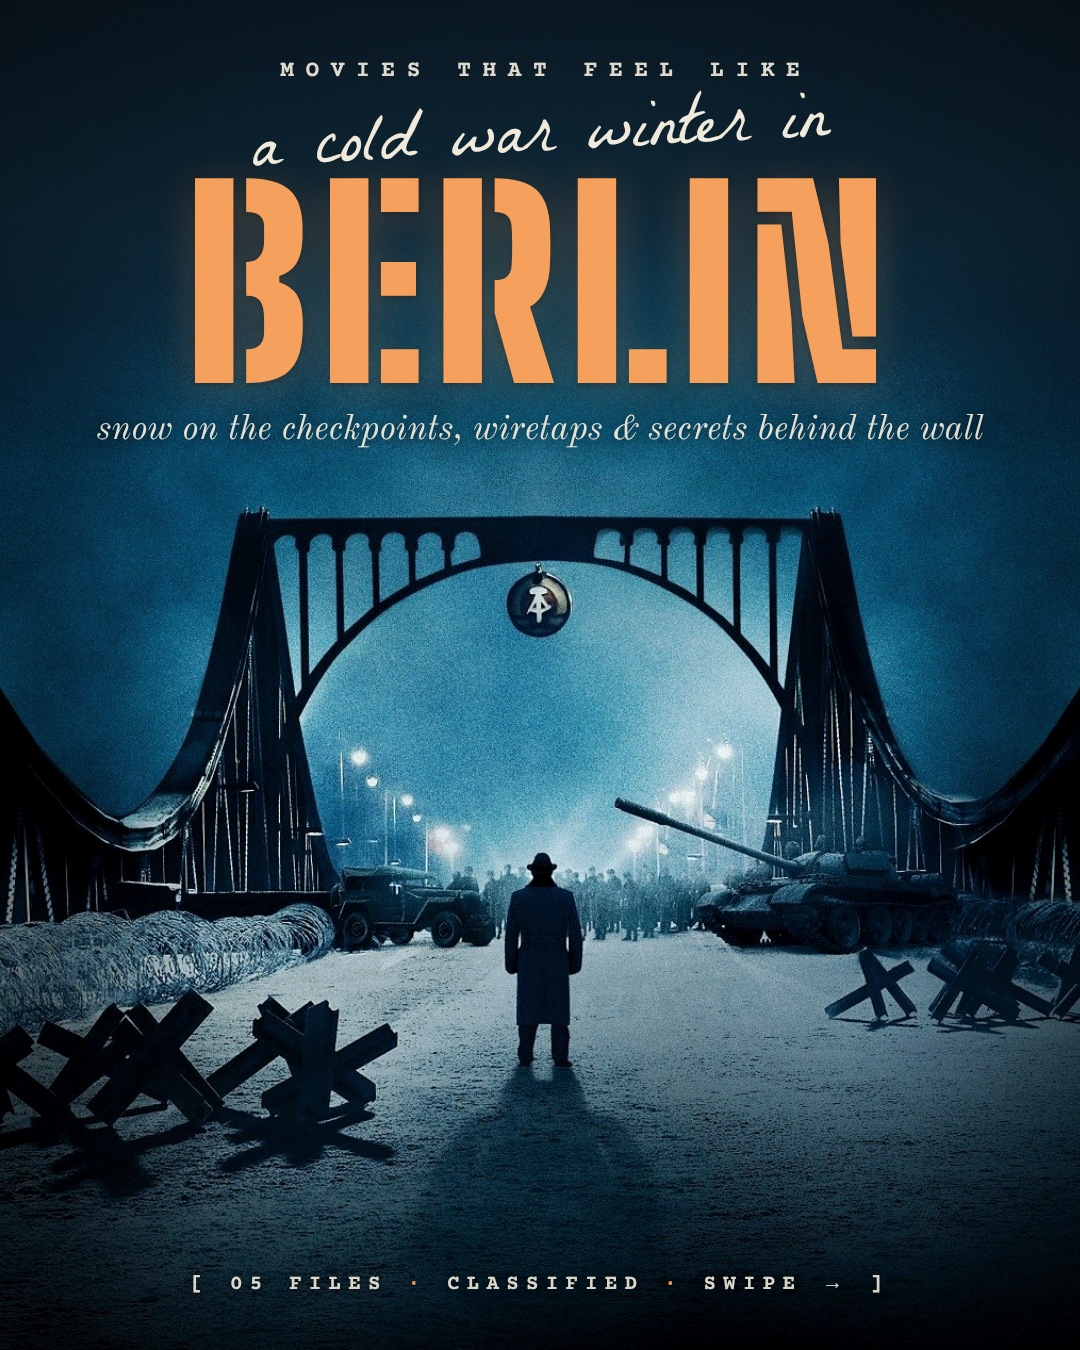
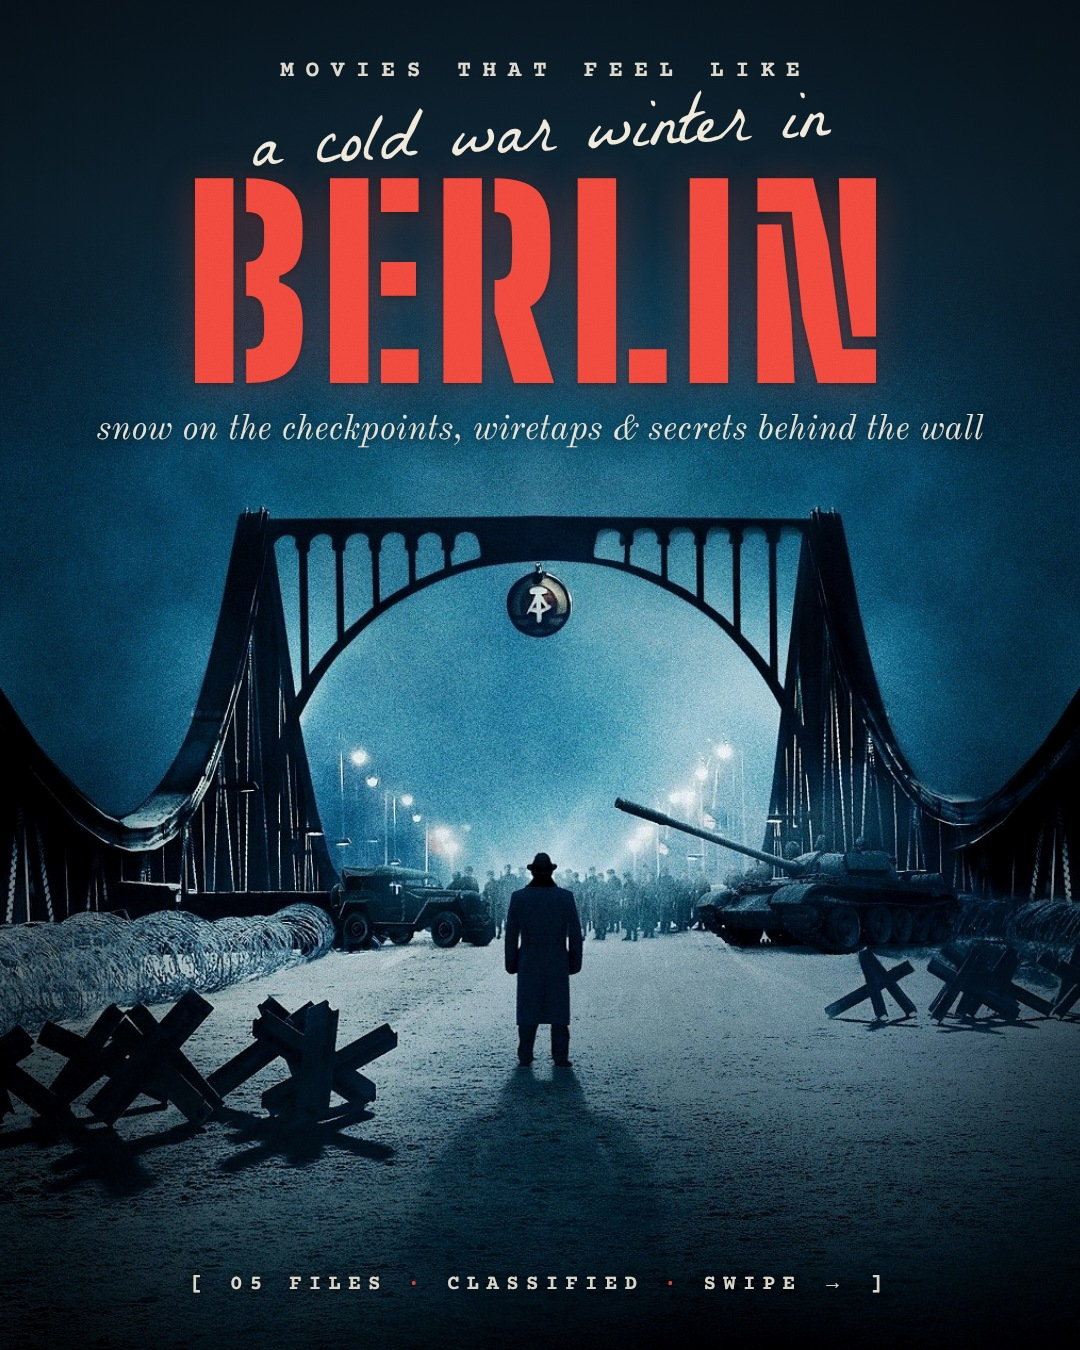
ede slideshow: cold war berlin cover in signal red

Changed region(s): [[0.1833, 0.1244, 0.825, 0.3111]]

diff --git a/tools/slideshow/render_berlin.js b/tools/slideshow/render_berlin.js
@@ -21,11 +21,11 @@ body{width:1080px;height:1350px;overflow:hidden;position:relative;background:#0B
 .cv .txt{position:absolute;left:0;right:0;top:58px;text-align:center;color:#EFE8DA}
 .kick{font-family:Type;font-weight:700;font-size:23px;letter-spacing:.5em;padding-left:.5em;opacity:.92}
 .hand{font-family:Hand;font-size:70px;line-height:1;margin-top:22px;color:#EFE8DA;transform:rotate(-3deg)}
-.big{font-family:Stencil;font-weight:900;font-size:256px;line-height:.82;letter-spacing:.035em;color:#F59A57;margin-top:4px;
-  text-shadow:0 6px 40px rgba(245,154,87,.22),0 2px 6px rgba(0,0,0,.35)}
+.big{font-family:Stencil;font-weight:900;font-size:256px;line-height:.82;letter-spacing:.035em;color:#F0473B;margin-top:4px;
+  text-shadow:0 6px 40px rgba(240,71,59,.28),0 2px 6px rgba(0,0,0,.35)}
 .sub{font-family:Old;font-style:italic;font-size:35px;margin-top:18px;opacity:.95;text-shadow:0 2px 12px rgba(0,0,0,.6)}
 .foot{position:absolute;left:0;right:0;bottom:54px;text-align:center;font-family:Type;font-weight:700;font-size:21px;letter-spacing:.34em;color:#EFE8DA;opacity:.9;text-shadow:0 1px 8px rgba(0,0,0,.8)}
-.foot b{color:#F59A57}
+.foot b{color:#F0473B}
 /* dossier */
 .desk{position:absolute;inset:0;background:radial-gradient(ellipse at 40% 30%,#2A3138,#151A1F 70%)}
 .folder{position:absolute;left:44px;right:44px;top:96px;bottom:44px;background:#D8C8A2;border-radius:6px 10px 10px 10px;
